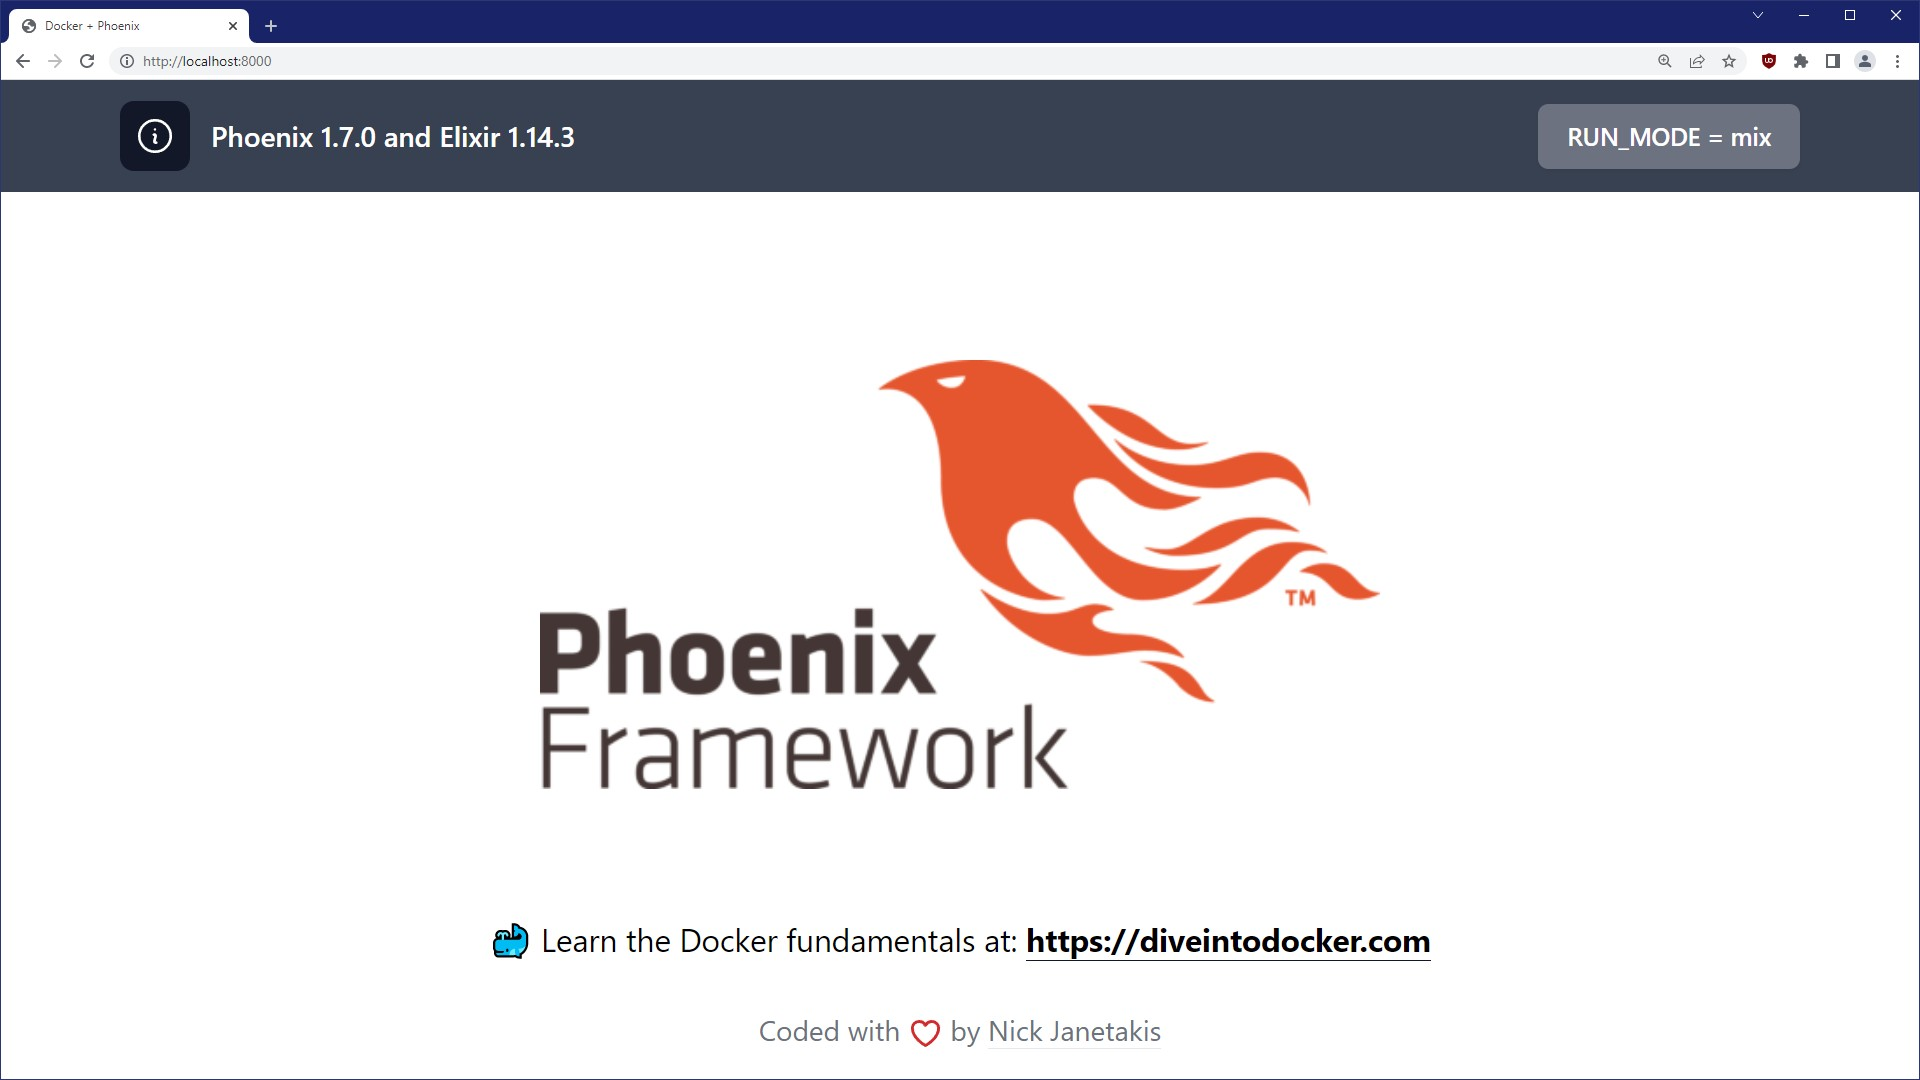
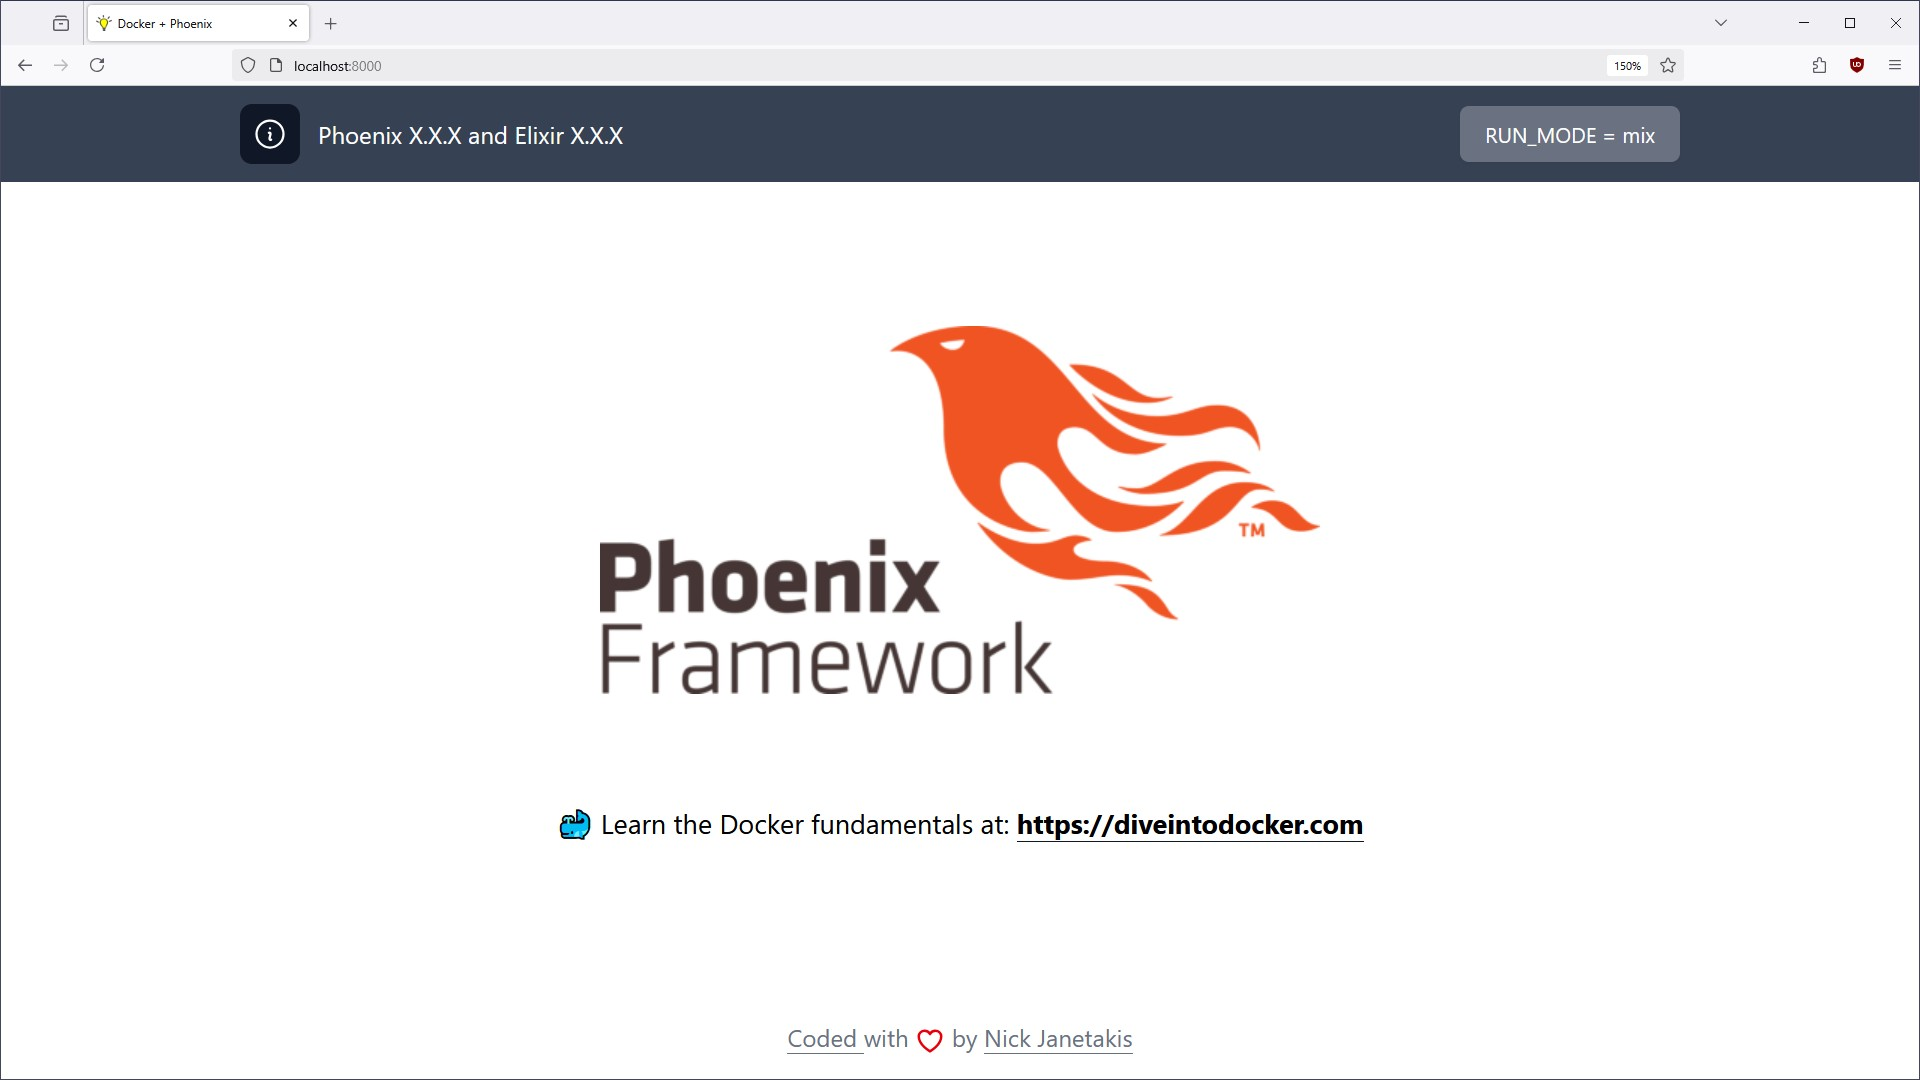
Update screenshot to use version placeholders

diff --git a/README.md b/README.md
@@ -14,8 +14,8 @@ practices](https://nickjanetakis.com/blog/best-practices-around-production-ready
 based on building and deploying dozens of assorted Dockerized web apps since
 late 2014.
 
-**This app is using Phoenix 1.7.21 and Elixir 1.18.3**. The screenshot doesn't
-get updated every time I bump the versions:
+**This app is using Phoenix 1.7.21 and Elixir 1.18.3**. The screenshot shows
+`X.X.X` since they get updated regularly:
 
 [![Screenshot](.github/docs/screenshot.jpg)](https://github.com/nickjj/docker-phoenix-example/blob/main/.github/docs/screenshot.jpg?raw=true)
 
